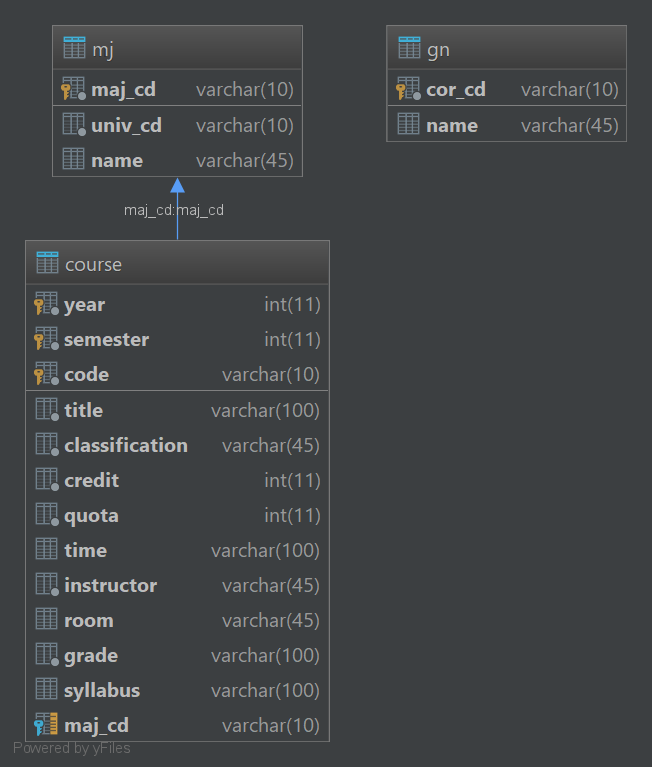
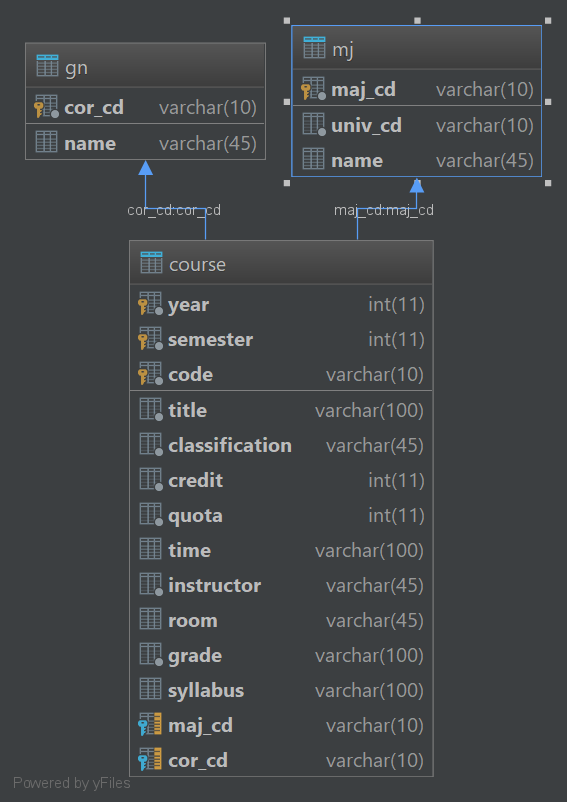
modify the database schema

diff --git a/GTG/src/GachonDatabase.java b/GTG/src/GachonDatabase.java
@@ -110,9 +110,11 @@ public class GachonDatabase {
                             "  `grade` VARCHAR(100) NOT NULL," +
                             "  `syllabus` VARCHAR(100) NULL," +
                             "  `maj_cd` VARCHAR(10)," +
+                            "  `cor_cd` VARCHAR(10)," +
                             "  PRIMARY KEY (`year`, `semester`, `code`)," +
-                            "  FOREIGN KEY (`maj_cd`) REFERENCES %s(`maj_cd`))",
-                    DB_NAME, COURSE_TABLE_NAME, MJ_TABLE_NAME);
+                            "  FOREIGN KEY (`maj_cd`) REFERENCES %s(`maj_cd`)," +
+                            "  FOREIGN KEY (`cor_cd`) REFERENCES %s(`cor_cd`))",
+                    DB_NAME, COURSE_TABLE_NAME, MJ_TABLE_NAME, GN_TABLE_NAME);
 
             createPstmt = conn.prepareStatement(query);
             createPstmt.executeUpdate();

diff --git a/GTG/README.md b/GTG/README.md
@@ -1,0 +1,21 @@
+GTG
+===
+1. DB 구축하기
+-------------
+DB를 구축하기 위해서는 먼저 `setConn` 함수에 MySQL 서버의 주소와 MySQL 유저명, 그리고 비밀번호를 파라미터로 제공하여야 한다.
+이 때 해당 유저는 DB를 구축하기 위한 적절한 권한을 가지고 있어야 한다.
+`setConn` 함수 사용 후 `createDatabase`, `createTables`, `insertCodes` 함수들을 사용하여 학과 및 교양 코드를 DB에 채워 넣는다.
+크롤링으로 바로 가져온 학과 코드들을 사용되지 않는 코드들이 포함되어 있으므로 학과 코드 테이블의 내용을 비운다음 첨부된 csv 파일을 통해 DB에 import 시킨다.
+```
+DELETE FROM mj;
+```
+
+Intellij에서 csv 파일을 통해 DB에 Import하는 방법은 다음의 링크를 참조한다.
+[Import/Export options](https://www.jetbrains.com/datagrip/features/importexport.html)
+
+이후 `insertCourses` 함수를 이용하여 과목들을 DB에 채워넣는다.
+
+2. DB Schema
+------------
+
+![DB Schema](https://github.com/elimerins/GraduOther/blob/master/GTG/gtg.png)
